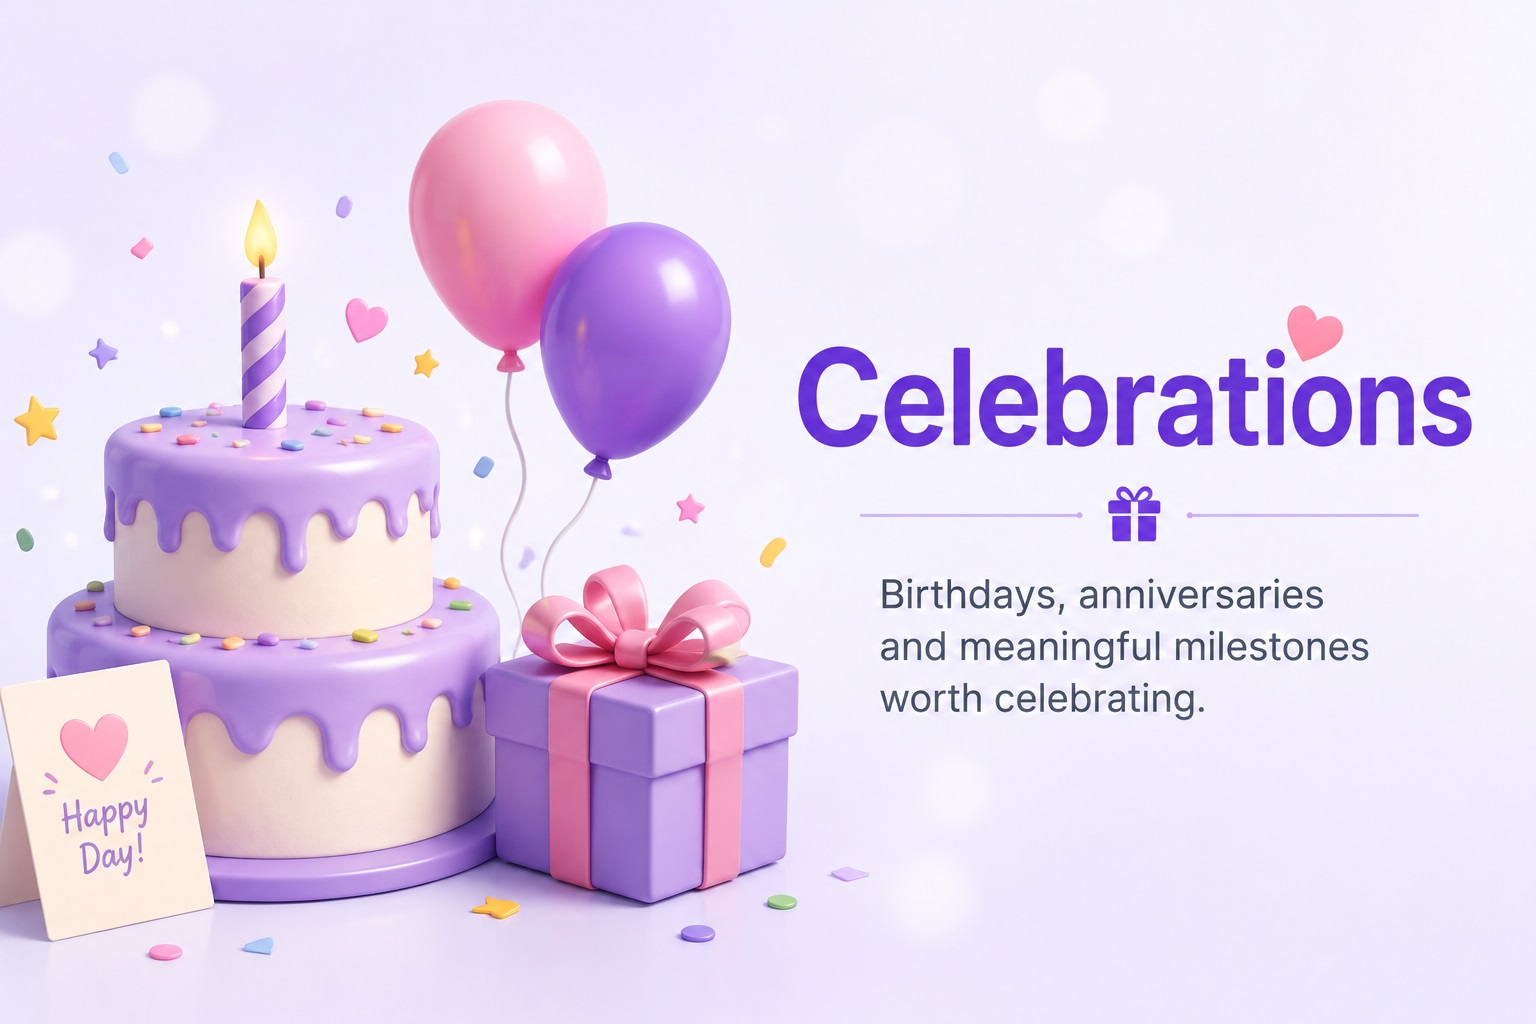
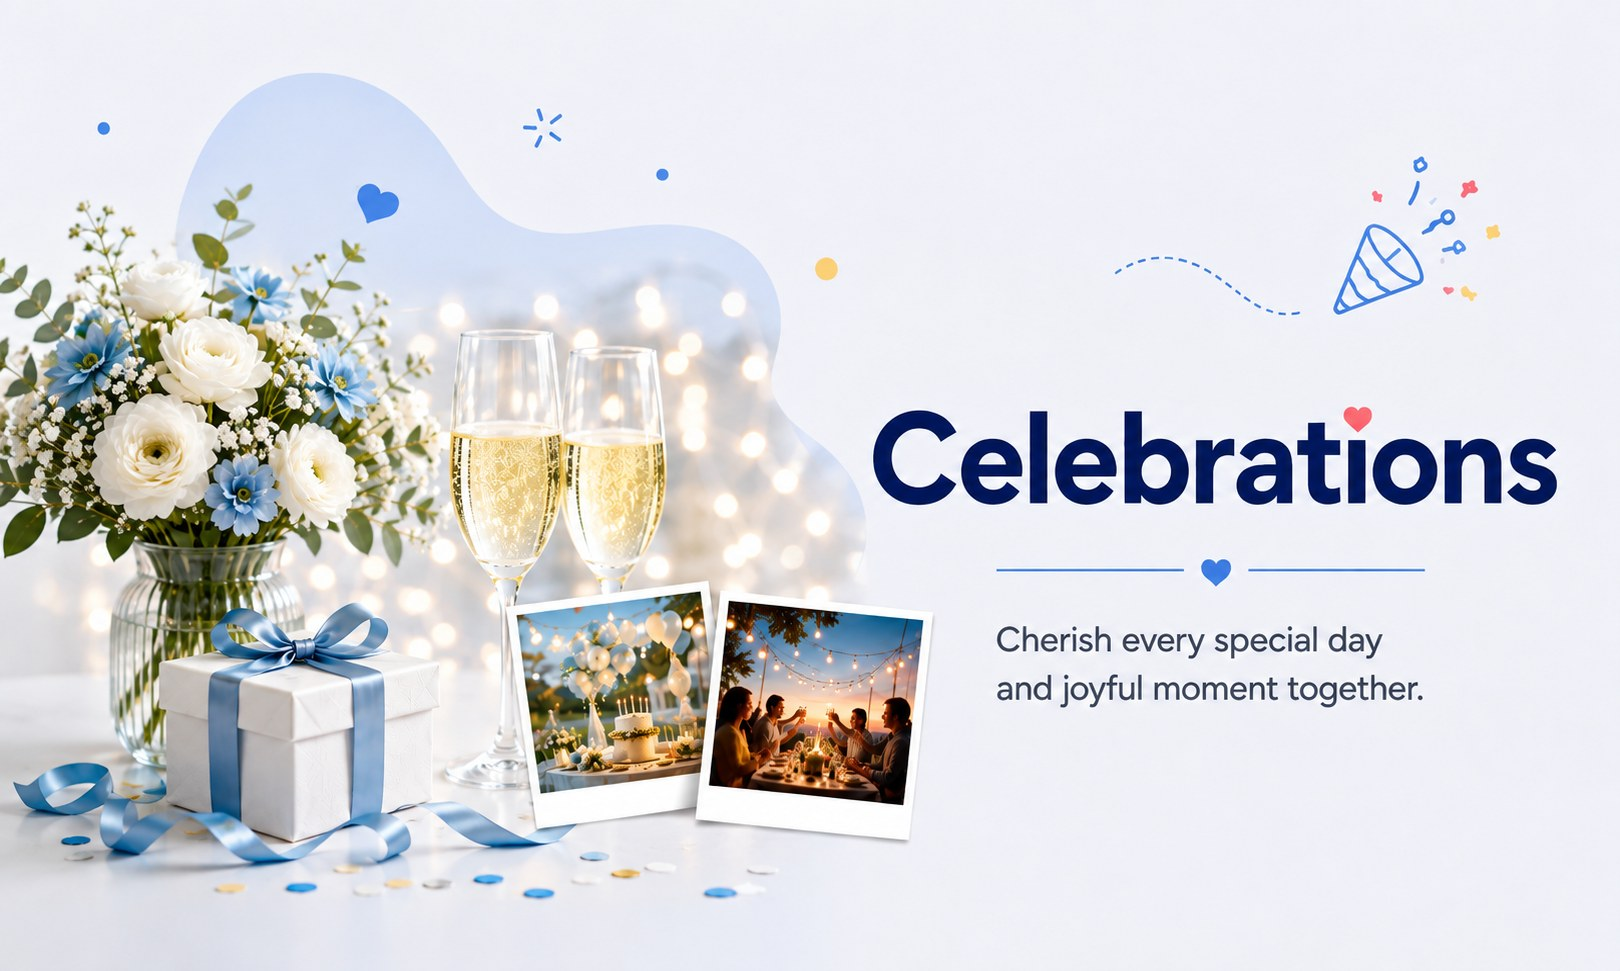
Replace Celebrations hero photo with new flowers/champagne/gift image (converted PNG to JPG)

diff --git a/sw.js b/sw.js
@@ -1,4 +1,4 @@
-const CACHE_NAME = "family-memories-v36";
+const CACHE_NAME = "family-memories-v37";
 const APP_SHELL = [
   "./",
   "./index.html",
